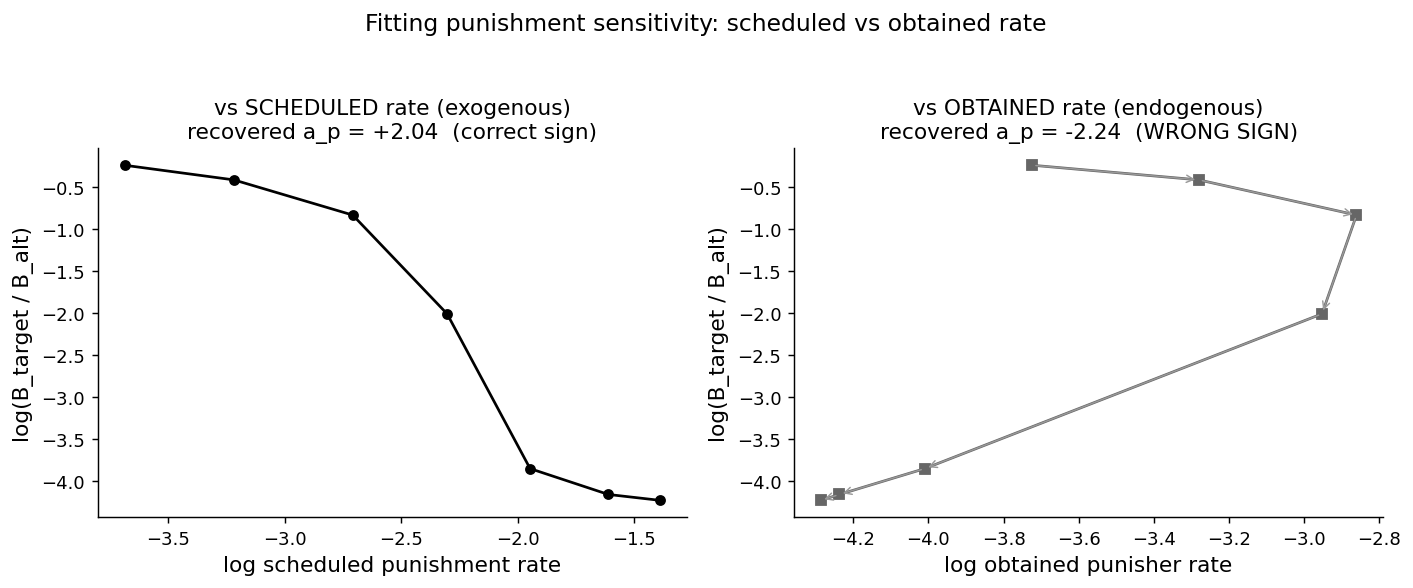
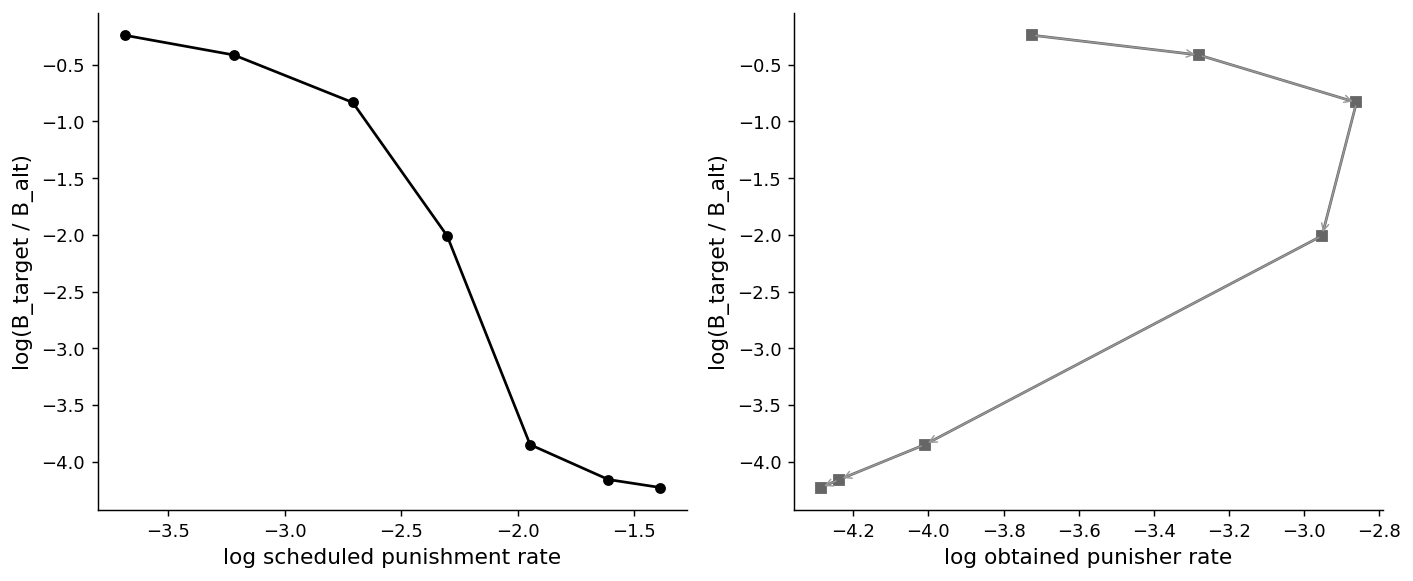
Studies: strip titles and overlain commentary from figures
Remove redundant plot titles/suptitles and interpretive annotations baked into the
figures (e.g. "(WRONG SIGN)", "collection peaks, then collapses"); the interpretation
lives in the READMEs. Figures keep only axis labels, data, and (on the obtained-rate
panel) the sweep-trajectory arrows that show the fold. Applies to the punishment-asymmetry
and obtained-rate-confound study figures.

diff --git a/studies/obtained_rate_confound/feedback_bias.py b/studies/obtained_rate_confound/feedback_bias.py
@@ -72,22 +72,16 @@ def main() -> None:
     # Figure 1: the feedback function -- obtained vs scheduled punisher rate (inverted-U).
     fig, ax = plt.subplots(figsize=(6.5, 4.6))
     ax.plot(sched, obt, color="black", marker="o", ms=5)
-    ax.scatter([sched[peak]], [obt[peak]], s=80, facecolors="none", edgecolors="black", zorder=5)
-    ax.annotate("collection peaks,\nthen collapses", (sched[peak], obt[peak]),
-                textcoords="offset points", xytext=(12, -4), fontsize=10)
     ax.set_xlabel("scheduled punishment rate on target (1/VI)")
     ax.set_ylabel("obtained punisher rate")
-    ax.set_title("Obtained punishment is endogenous (inverted-U)")
     ax.set_ylim(bottom=0)
     f1 = FIG / "feedback_function.png"
     fig.savefig(f1, dpi=130, bbox_inches="tight")
     plt.close(fig)
 
-    # Figure 2: the fit -- log allocation vs scheduled (monotonic, correct sign) vs
-    # obtained (folded, wrong sign).
+    # Figure 2: the fit -- log allocation vs scheduled (monotonic) vs obtained (folded).
     fig, (axL, axR) = plt.subplots(1, 2, figsize=(11, 4.6))
     axL.plot(np.log(sched), logbr, color="black", marker="o", ms=5)
-    axL.set_title(f"vs SCHEDULED rate (exogenous)\nrecovered a_p = {a_sched:+.2f}  (correct sign)")
     axL.set_xlabel("log scheduled punishment rate")
     axL.set_ylabel("log(B_target / B_alt)")
     axR.plot(np.log(obt), logbr, color="0.4", marker="s", ms=5)
@@ -95,11 +89,9 @@ def main() -> None:
         axR.annotate("", xy=(np.log(obt[i + 1]), logbr[i + 1]),
                      xytext=(np.log(obt[i]), logbr[i]),
                      arrowprops=dict(arrowstyle="->", color="0.6", lw=0.8))
-    axR.set_title(f"vs OBTAINED rate (endogenous)\nrecovered a_p = {a_obt:+.2f}  (WRONG SIGN)")
     axR.set_xlabel("log obtained punisher rate")
     axR.set_ylabel("log(B_target / B_alt)")
-    fig.suptitle("Fitting punishment sensitivity: scheduled vs obtained rate", fontsize=13)
-    fig.tight_layout(rect=(0, 0, 1, 0.95))
+    fig.tight_layout()
     f2 = FIG / "fit_scheduled_vs_obtained.png"
     fig.savefig(f2, dpi=130, bbox_inches="tight")
     plt.close(fig)

diff --git a/studies/punishment_asymmetry/compare_models.py b/studies/punishment_asymmetry/compare_models.py
@@ -125,7 +125,6 @@ def figure(diss: dict, forage: dict) -> Path:
              label="subtractive (de Villiers)")
     axL.plot(a, diss["competitive"], color="0.45", ls="--", marker="s", ms=5,
              label="competitive (Deluty)")
-    axL.set_title("Concurrent choice (chamber):\npunishment suppression vs. alternative")
     axL.set_xlabel("alternative reinforcement rate (1/VI)")
     axL.set_ylabel("punishment suppression (log-odds)")
     axL.set_ylim(bottom=0)
@@ -139,14 +138,12 @@ def figure(diss: dict, forage: dict) -> Path:
     ax2.plot(c, forage["avoid_weight"], color="0.0", ls=":", marker="^", ms=5,
              label="learned avoidance")
     ax2.set_ylabel("learned avoidance weight")
-    axR.set_title("Open foraging (survival):\napproach-avoidance vs. punishment sensitivity")
     axR.set_xlabel("punishment sensitivity c (subtractive)")
     axR.set_ylabel("per-life count")
     lines = axR.get_lines() + ax2.get_lines()
     axR.legend(lines, [ln.get_label() for ln in lines], frameon=False, loc="upper center")
 
-    fig.suptitle("Reinforcement/punishment asymmetry in two preparations", fontsize=14)
-    fig.tight_layout(rect=(0, 0, 1, 0.95))
+    fig.tight_layout()
     path = FIG / "asymmetry_both_preparations.png"
     fig.savefig(path, dpi=130, bbox_inches="tight")
     plt.close(fig)
